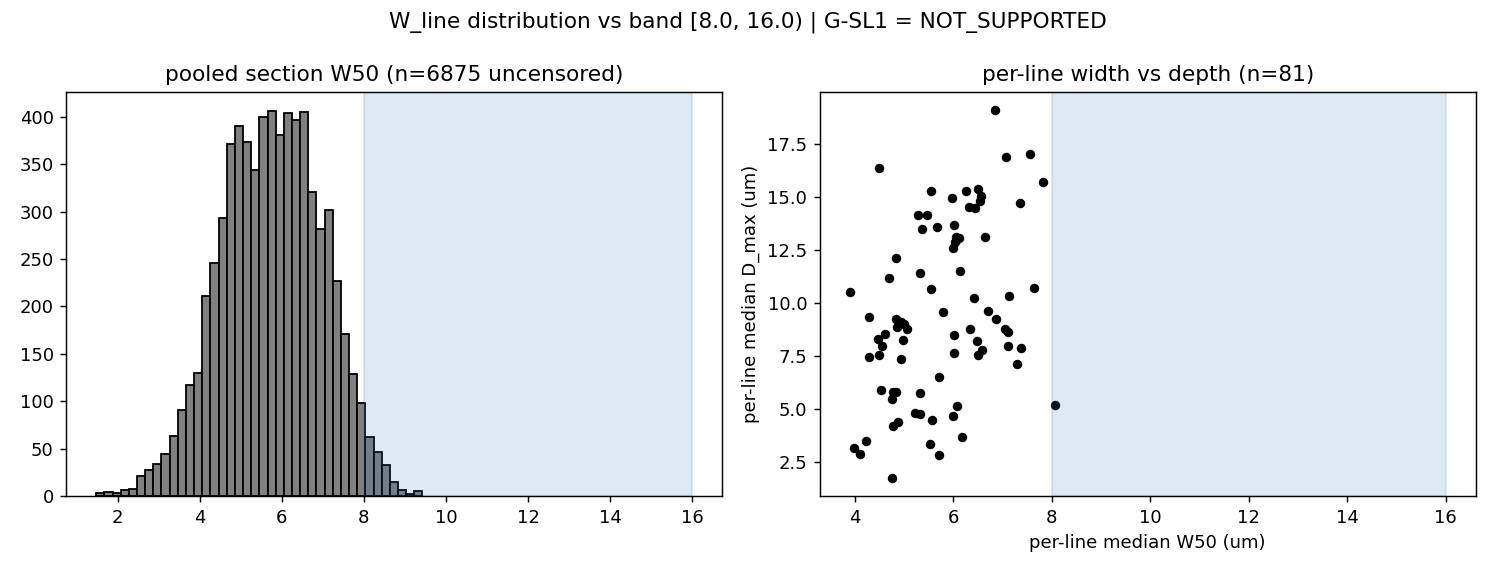
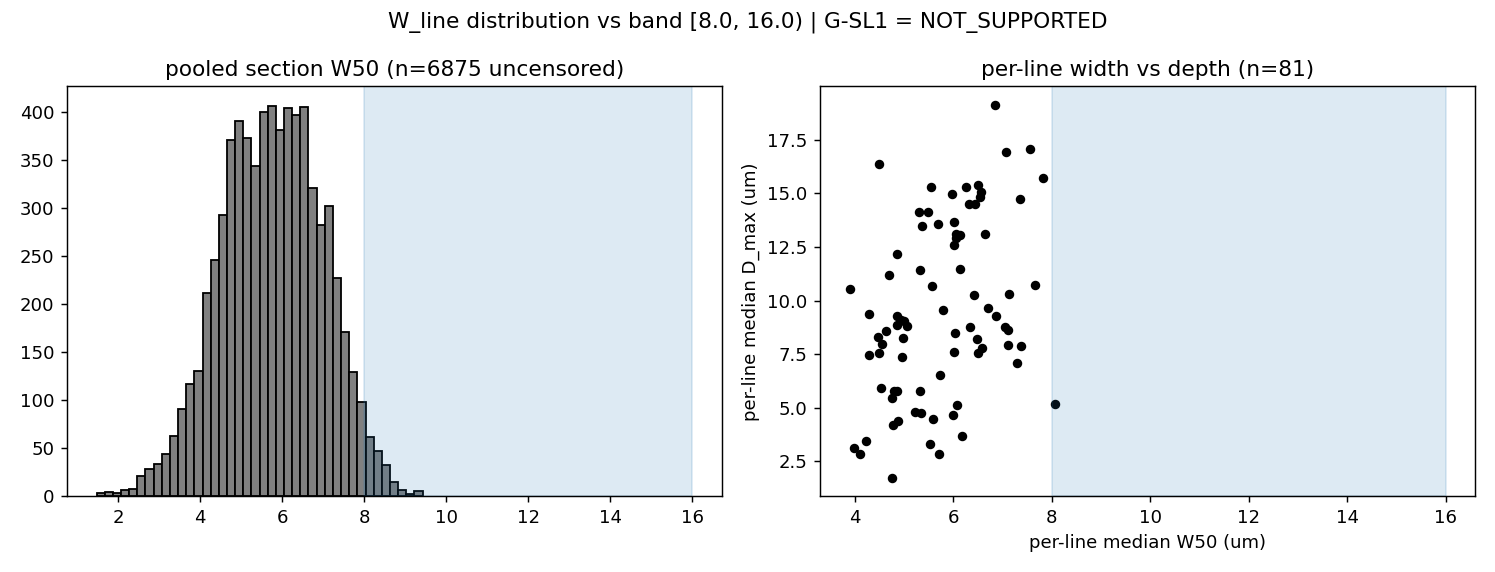
Phase 2.6 封账（报告层修正，不重跑主结果）：variant 混报修复 + usable-only 臂 + gate_eval rev2
- Task 17：evaluate_folds 显式 variant 参数（primary_gkf/primary_gss/sensitivity_gkf/usable_only_gkf），修复 primary 数据 GSS 折误标；新增 usable-only 臂（n=18 Ridge）与 gsl1_evaluation usable_only 块
- 重跑验证：G-SL1 全部数值逐位不变（pooled W50 5.776 / 带内 1.2% / W_eq 5.857，NOT_SUPPORTED 0/3）
- gate_eval 升 rev2：终判表述收紧为'8–16 µm 方向纹理具有强 hatch-related scale 证据'（主导 m 未分解，留给 Phase 2.7）；adaptive refinement 正式入账；Q5 改述为'geometry compression 不成立'（scalar retention 1.037 不劣于全工艺，失败在 composition）；Q8 补理论要点（常数幅值 h-阵梳齿 λ=h/j≤h，不可能产生 λ=2h 峰——34% m=2 份额强制要求 two-line/period-doubled 组织）
- 细则 §15 封账登记 + 开放项④关闭

diff --git a/experiments/phase2_6/17_line_width_process_model.py b/experiments/phase2_6/17_line_width_process_model.py
@@ -70,7 +70,9 @@ def pick_alpha(X_train: np.ndarray, y_train: np.ndarray, groups_train: pd.Series
 
 
 def evaluate_folds(model_name: str, frame: pd.DataFrame, splits, *,
-                   target: str, seed: int) -> list[dict]:
+                   target: str, seed: int, variant: str) -> list[dict]:
+    # explicit variant label (封账修正：frame.attrs 在 df.copy() 链上不可靠，
+    # 曾把 primary 数据的 GSS 折误报为另一 variant)
     rows = []
     X = frame[FEATURES].to_numpy(dtype=float)
     y = frame[target].to_numpy(dtype=float)
@@ -94,7 +96,7 @@ def evaluate_folds(model_name: str, frame: pd.DataFrame, splits, *,
         model.fit(X[tr], y[tr])
         pred = model.predict(X[te])
         rows.append({
-            "variant": frame.attrs.get("variant", "primary"),
+            "variant": variant,
             "fold": fold, "model": model_name,
             "n_train": int(len(tr)), "n_test": int(len(te)),
             "R2": float(r2_score(y[te], pred)),
@@ -185,17 +187,29 @@ def main() -> int:
 
     rows: list[dict] = []
     rows += evaluate_folds("ridge", primary, splits, target="median_W50_um",
-                           seed=seed)
+                           seed=seed, variant="primary_gkf")
     rows += evaluate_folds("spline", primary, splits, target="median_W50_um",
-                           seed=seed)
+                           seed=seed, variant="primary_gkf")
     rows += evaluate_folds("extratrees", primary, splits,
-                           target="median_W50_um", seed=seed)
+                           target="median_W50_um", seed=seed,
+                           variant="primary_gkf")
     sens_splits = p26.p2.gkf_splits(sensitivity["single_line_id"], 5)
     p26.p2.check_gkf_contract(sensitivity["single_line_id"], sens_splits)
     rows += evaluate_folds("ridge", sensitivity, sens_splits,
-                           target="median_W50_um", seed=seed)
+                           target="median_W50_um", seed=seed,
+                           variant="sensitivity_gkf")
     rows += evaluate_folds("ridge", primary, gss, target="median_W50_um",
-                           seed=seed)
+                           seed=seed, variant="primary_gss")
+    # usable-only sensitivity (Phase 2.7 封账补充)：18 条 usable 线的
+    # W50/W_eq 一致性对照——uncertain 占多数时的保守下界
+    usable_only = primary[primary["qa_label"] == "usable"].copy()
+    p26.require(len(usable_only) >= 10,
+                f"usable-only arm too small: {len(usable_only)}")
+    usable_splits = p26.p2.gkf_splits(usable_only["single_line_id"], 5)
+    p26.p2.check_gkf_contract(usable_only["single_line_id"], usable_splits)
+    rows += evaluate_folds("ridge", usable_only, usable_splits,
+                           target="median_W50_um", seed=seed,
+                           variant="usable_only_gkf")
     folds = pd.DataFrame(rows)
     for column in ("R2", "MAE_um"):
         folds[column] = folds[column].astype(float)
@@ -210,7 +224,7 @@ def main() -> int:
                        index=False, encoding="utf-8-sig")
     p26.log(f"line_width_process_model.csv written: {len(folds)} fold rows | "
             f"primary Ridge median R2="
-            f"{summary_rows[(summary_rows['variant']=='primary') & (summary_rows['model']=='ridge')]['median_R2'].iloc[0]:.3f}")
+            f"{summary_rows[(summary_rows['variant']=='primary_gkf') & (summary_rows['model']=='ridge')]['median_R2'].iloc[0]:.3f}")
 
     # refit Ridge on the full primary set for response curves (alpha inner-GKF)
     X = primary[FEATURES].to_numpy(dtype=float)
@@ -274,12 +288,27 @@ def main() -> int:
     state_counts_all = {state: int((frame["width_identifiability"] == state).sum())
                         for state in ("estimable", "right_censored",
                                       "insufficient_sections")}
+    usable_only_block = {
+        "n": int(len(usable_only)),
+        "pooled_section_median_W50_um": float(
+            pooled[pooled["single_line_id"].isin(usable_only["single_line_id"])]
+            ["W50_um"].median()),
+        "line_median_W50_in_band_fraction": float(
+            in_band(usable_only["median_W50_um"]).mean()),
+        "pooled_section_weq_median_um": float(
+            pooled[pooled["single_line_id"].isin(usable_only["single_line_id"])]
+            ["W_eq_um"].median()),
+        "line_median_weq_in_band_fraction": float(
+            in_band(usable_only["median_W_eq_um"]).mean()),
+        "note": "usable-only sensitivity (Phase 2.7 封账)：18 条人工完全可用线",
+    }
     evaluation = {
         "population": "estimable & qa_label != reject_geometry",
         "n_gate": int(len(primary)),
         "n_estimable_all": state_counts_all,
         "n_right_censored_all": state_counts_all["right_censored"],
         "n_insufficient_all": state_counts_all["insufficient_sections"],
+        "usable_only_sensitivity": usable_only_block,
         "raw_arm": {"pooled_section_median_W50_um": pooled_median,
                     "line_median_W50_um": line_median,
                     "pooled_section_weq_median_um": pooled_weq_median,

diff --git a/outputs/phase2_6/summary/phase2_6_gate_eval.md b/outputs/phase2_6/summary/phase2_6_gate_eval.md
@@ -1,6 +1,7 @@
-# Phase 2.6 gate 评估（rev1）
+# Phase 2.6 gate 评估（rev2，封账版）
 
-> 状态：formal 完成（2026-09-04）。config/门槛预冻结于细则 v2（FROZEN_EXECUTED，提交 `2daa611`）；formal 链：Task 15/16（`65ded0e`/`7e99bf9`/`a469206`）→ 审计修复 + Task 17（`cdfda62`）→ Task 18（`dff4915`）→ Task 19/20（`8e646a1`）。预冻结后仅发生实现级修复（M0_RECON 参考交集与 Task 12 协议对齐、W_unavailable 两态、log10_tau 列序、sensitivity 臂自建 splits、pandas-3 lookup 语义），全部已回写细则 §0.15/§0.17 补注；G-SL1~G-SL4 门槛自冻结起未改动。formal 运行统一使用 `.venv`（pinned sklearn 1.7.2——`D:\anaconda` 的 sklearn 使内层 R² 微移致 α 翻转，是对账失败的根因，已固化为运行环境约定）。
+> 状态：**封账（2026-09-04）**。rev1 判定全部维持；rev2 仅做报告层修正（不重跑主结果，G-SL1/2/3 结论不变）：① 终判表述从"8–16 µm = hatch"收紧为"**8–16 µm 方向纹理具有强 hatch-related scale 证据**"（G-SL2 证明的是 λ_peak/h 聚集于 {1,2,3}，未分解到具体 m）；② 登记 formal 后稳定区规则发生过 **adaptive refinement**（central-70% → 深度台地最长连续段 + 碎片守卫 + qualifying-only 截面，经多轮实跑迭代定型——非预注册一步到位，已回写 §0.15 补注并留全程轨迹）；③ Task 17 variant 混报修复（GSS 折曾误标 variant）与 **usable-only sensitivity** 补充（n=18：W50 带内 0.0%、W_eq 带内 0.0%——保守下界与主口径同向）；④ Q5 回答改述为"**geometry compression 不成立**"（原文"劣于"暗示 h 差，实际 scalar retention 1.037 不劣于全工艺，是 composition 保持率 0.592 不达 0.80）。
+> 事实链：config/门槛预冻结于细则 v2（`2daa611`）；formal 链 Task 15–20 + 审计修复（`65ded0e`→`8e646a1`）；封账修正（`8189fc7` 之后、本提交）。运行环境强制 `.venv`（见 `summary/RUNTIME_ENVIRONMENT.md`——conda 解释器下 α 翻转致对账超差，复现必读）。
 
 ## 1. Gate 结果
 
@@ -16,7 +17,7 @@
 
 ## 2. 终判（上位规划 §17 矩阵）
 
-**G-SL1 NO + G-SL2 YES → 判定 B：8–16 µm 主要反映 hatch line array 的周期/整数倍结构（hatch-related periodic / integer-multiple scale），而非单轨本征宽度。**
+**G-SL1 NO + G-SL2 YES → 判定 B（rev2 表述收紧）：8–16 µm 方向纹理具有强 hatch-related scale 证据**——λ_peak/h 强聚集于 {1,2,3}（A_obs 0.904，p=0.0001），且该聚集不能用 DOE 结构性伪影解释（block-structured null）；但 {1,2,3} 内部的主导 m 尚未分解（P(m|h) 初步显示 m=2 份额随 h 单调下降：h=4 约 0.75 → h=10 约 0.25），"8–16 µm = hatch"的简单等式不成立，精确机制留给 Phase 2.7。
 
 支撑链（按 §0.17 证据优先级）：
 
@@ -33,10 +34,10 @@
 2. **8–16 µm 是否覆盖单线宽度主分布**：否（W50 带内 1.2%，W_eq 0%）。
 3. **宽度的主要受控变量**：预测力弱（R² ≈ 0，f 为 Ep-coupled 不可分离）——单线宽度对 (τ,f,v,N) 的响应弱于预期，宽度更多受局部/材料因素调制（response curves 见 `W_line_response_curves.csv`，描述性）。
 4. **λ 更接近 W、h 还是 2h**：λ_peak/h 聚集 1/2/3（G-SL2 SUPPORTED）；λ\*/W_line ≈ 2.09（direct bridge）→ **更接近 h 的整数倍尺度；与 2×W_line 的重合为探索性观察**。
-5. **W/h 是否优于单独 W 或 h**：composition 保持率不足（0.592）→ 否（G-SL3 NOT_SUPPORTED）。
+5. **geometry compression 是否成立**（rev2 改述）：不成立——3 个几何量 [Ŵ, h, Ŵ/h] 只保留 composition 可预测性的 59%（retention 0.592 < 0.80，G-SL3 NOT_SUPPORTED）；注意这不是"W/h 劣于 h"——scalar 臂 retention 1.037 说明几何量对 A2/角熵**不劣于**全工艺，失败 specifically 发生在完整谱组成上（Route P 仍需多因素）。另外实测 M2_h（h 单独）对 A2/角熵的 src_gkf 中位 R² 为 0.694/0.676，与全工艺 M0（0.663/0.648）相当——Route T 的 hatch 主导性是 Phase 2.7 G27-1 的正式检验对象。
 6. **Route P/T 是否随 overlap 几何改变**：几何量（Ŵ,h,Ŵ/h）对四 target 的 Spearman 显示方向性关联（A2 −0.836、角熵 +0.861、p_8_16 −0.630、ilr_z2 +0.564），但压缩保持率不足 → 关联存在、可压缩性不成立。
 7. **条纹方向与 scan/hatch 对应**：不可判定（无 provenance，G-SL4 = NA）；image-frame 0/90 聚集 117/200 仅为 descriptive。
-8. **最终解释**：**hatch-related periodic / integer-multiple scale（判定 B）**——8–16 µm 谱能量分配与方向纹理主要由线间填充阵列的整数倍周期结构决定；单轨本征宽度（≈5.8 µm）不在带内；overlap-composite 压缩命题未获支持。
+8. **最终解释**（rev2 收紧）：8–16 µm 方向纹理具有**强 hatch-related scale 证据**（判定 B），但主导尺度（h vs 2h vs 混合，及 P(m|h) 的 h 依赖）未分解；单轨本征宽度（≈5.8 µm）不在带内已确证；overlap-composite 压缩命题未获支持。理论要点（Phase 2.7 动机）：常数幅值 h-线阵的傅里叶梳齿位于 λ=h/j ≤ h，**不可能产生 λ=2h 峰**——实测 34% 的 m=2 份额因此要求两线周期组织（a_n 奇偶交替/two-line unit）或材料响应展宽（h < W 的熔并），这正是 G27-3 的证伪结构。
 
 ## 4. 权力与弱点（必读）
 

diff --git a/experiments/phase2_6/Phase2.6_落地执行细则.md b/experiments/phase2_6/Phase2.6_落地执行细则.md
@@ -398,4 +398,5 @@ outputs/phase2_6/
 - **2026-09-04 审计回写（已落入正文）**：§0.14 增列冻结后 config 改动的偏差登记；§0.15 补注 (a) 按实跑 config 回写（depth_frac 0.50 / P90 / 宽度条件撤销 / gap_merge 10 µm / 碎片守卫）；§0.17 新增 `W_unavailable` 态（`insufficient_sections` 不是下界，direct bridge 实测缺失率 5/19 = 26%）。
 - **2026-09-04 实施状态**：Task 15/16 已 formal 完成并含人工三值 QA（120/120：usable 18 / uncertain 78 / reject 24）；Task 17/18 代码完整但**尚未 formal 运行**；**Task 19（SL-04，G-SL2）与 Task 20（SL-05，G-SL4）已于本日由冻结骨架落地为完整实现**（19 走 λ_peak 主口径 + block-structured shuffled-h null，20 走 provenance_valid=false 的 NOT_APPLICABLE 路径 + image-frame descriptive 臂），并补齐单测 T14/T16/T18/T22。**上述实现未经本机执行验证**（审计环境无 numpy/pandas/scipy，包索引不可用），首次 formal 运行须以 `--quick` 先行冒烟。
 - **G-SL1 预读（2026-09-04，由 Task 16 产物按冻结口径直接算得，非 formal 判定；formal 归 Task 17）**：总体 = estimable 且人工标签 ≠ reject，n = 81（≥60，视场代表性保护不适用）。pooled W50 median = **5.776 µm**（带内 2.7%）✗；per-line median W50 带内 **1/81 = 1.2%** ✗；pooled W_eq median = **5.857 µm**（带内 1.5%）✗ ⇒ **G-SL1 三条判据 0/3，指向 NOT_SUPPORTED**。预注册旁支口径 **W20 pooled median = 8.161 µm（P10 6.36 / P90 10.08），带内 53.8%** —— 8–16 µm 更接近槽的**外缘/近阈值宽度**而非半深宽度。W20 属 §5 预注册保存的口径，可作 pre-registered sensitivity 并列报告；**严禁**据此回改 `W_line = W50` 主定义或将 W20 提升为 G-SL1 主判据（上位规划 §21、本细则 §0.14）。据此，H1 终判的落点主要在 **G-SL2**（Task 19）。
-- **开放（不阻塞冻结）**：① ~~人工 QA 标注完成时间~~（**已于 2026-09-04 完成 120/120**，vs-band 科学图的生成前置条件已满足）；② 若外审要求 conditional 方向臂，须先人工登记填充轴并回写 §0.8；③ `power_measurement_version=PENDING_REGISTRATION` 的登记（v2 §11 要求），完成前 gate 文档保留弱点注记；④ Task 17/18/19/20 的首次 formal 运行与 commit（依赖具备 numpy/pandas/scipy/sklearn 的运行环境）。
+- **开放（不阻塞冻结）**：① ~~人工 QA 标注完成时间~~（**已于 2026-09-04 完成 120/120**，vs-band 科学图的生成前置条件已满足）；② 若外审要求 conditional 方向臂，须先人工登记填充轴并回写 §0.8；③ `power_measurement_version=PENDING_REGISTRATION` 的登记（v2 §11 要求），完成前 gate 文档保留弱点注记；④ ~~Task 17/18/19/20 的首次 formal 运行与 commit~~（**已于 2026-09-04 完成**，formal 统一使用 `.venv`——运行环境约定与复现锚点见 `outputs/phase2_6/summary/RUNTIME_ENVIRONMENT.md`）。
+- **2026-09-04 封账登记（Phase 2.6 关账，报告层修正、不重跑主结果）**：① **adaptive refinement 正式入账**——§0.15 稳定区规则在 Task 16 formal 期间经历多轮迭代（central-70% → 深度台地 0.8·median → 0.5·P90 + 碎片守卫 + qualifying-only 截面），全部发生在任何 gate 统计计算之前，迭代轨迹与config 终态已回写 §0.15 补注 (a)(b)；② Task 17 variant 混报修复（primary 数据的 GSS 折曾误标 variant → 现显式 primary_gkf / primary_gss / sensitivity_gkf / usable_only_gkf）并重跑 formal——G-SL1 全部数值逐位不变（pooled W50 5.776 / 带内 1.2% / W_eq 5.857）；③ 新增 **usable-only sensitivity**（n=18：W50 带内 0.0%、W_eq 带内 0.0%——保守下界与主口径同向，写入 gsl1_evaluation.json）；④ gate 终判文档升 rev2（表述收紧 + 上述登记），判定维持 B。Phase 2.6 关账，后续进入 Phase 2.7。
